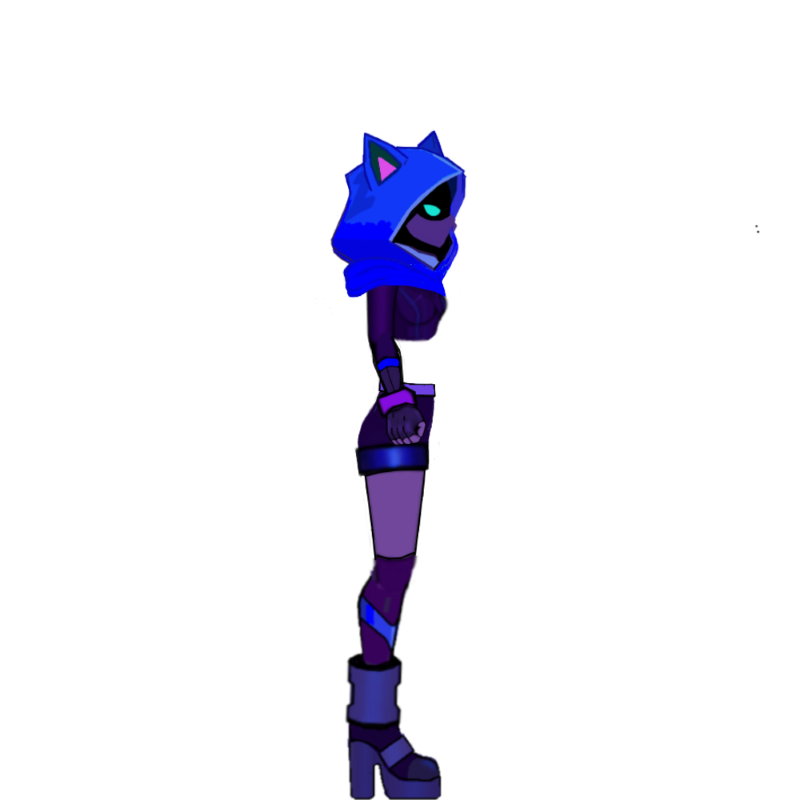
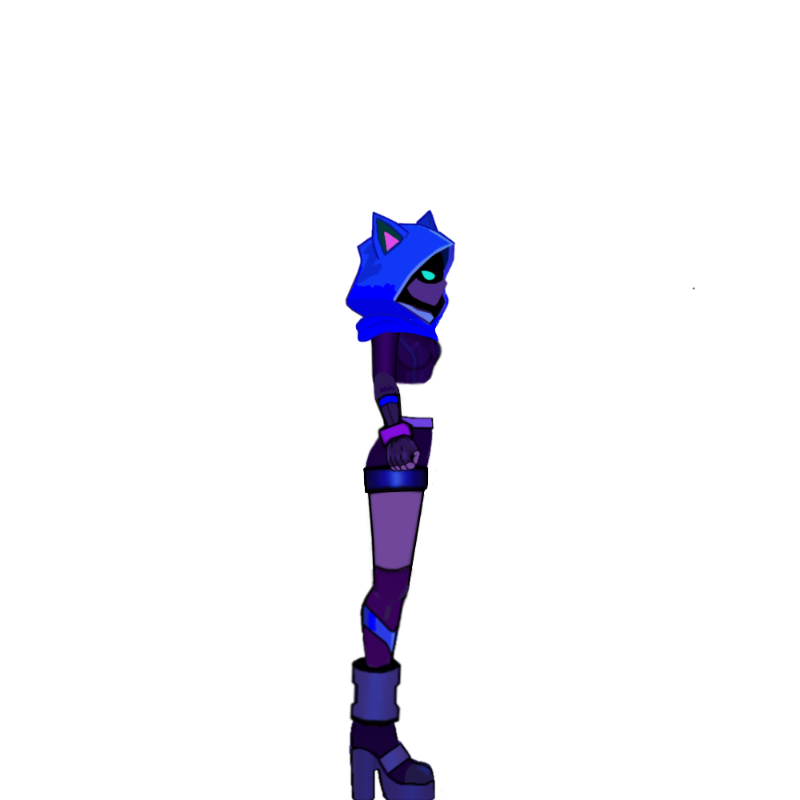
updated art to fix short legs

Changed region(s): [[0.4062, 0.1562, 0.5938, 0.625], [0.4062, 0.6562, 0.5625, 1.0]]

diff --git a/animatedRig.html b/animatedRig.html
@@ -44,16 +44,16 @@ const R2D = Math.PI / 180, FPS = 24;
    part's own pivot-to-pivot axis onto the matching skeleton bone (rotating and stretching it along the bone). */
 const SHEET_URL='assets/images/body_parts.png';   // the head frame is the hooded head; every other frame matches mannequin_side.png
 const ART_NAMES=["head", "chest", "pelvis", "upperArm", "forearm", "handR", "handL", "thigh", "calf", "shoe"];
-const ART_BOX={"head": [298, 22, 179, 203], "chest": [332, 162, 141, 146], "pelvis": [317, 281, 144, 164], "upperArm": [340, 163, 87, 169], "forearm": [345, 259, 97, 157], "handR": [364, 354, 91, 94], "handL": [365, 353, 90, 93], "thigh": [325, 328, 132, 242], "calf": [331, 502, 100, 220], "shoe": [327, 640, 154, 160]};   // [x,y,w,h] crop of each frame (bbox + margin)
+const ART_BOX={"head": [320, 120, 155, 182], "chest": [355, 251, 102, 104], "pelvis": [346, 367, 98, 119], "upperArm": [358, 262, 51, 109], "forearm": [359, 330, 66, 100], "handR": [374, 384, 59, 71], "handL": [373, 395, 59, 62], "thigh": [344, 409, 95, 197], "calf": [335, 551, 86, 198], "shoe": [338, 681, 114, 119]};   // [x,y,w,h] crop of each frame (bbox + margin)
 const ART_PIV={
-  hip:[393.5,365.5], knee:[384.5,533.6], ankle:[383.1,685.3],        // gray knee ball / ankle circle; hip = 320.2px above ankle
-  shoulder:[383.0,211.5], elbow:[383.7,296.7], wrist:[401.9,386.3],  // elbow / wrist gray circles; shoulder = centre of the arm cap
-  rib:[388.15,287.0],                                               // waist joint: on the hip->shoulder line, chest/pelvis gap
-  neck:[382.2,199.5], headPivot:[382.2,143.5],
-  neckFrom:[392,204], neckTo:[394,140],                      // chest top / base-back of the skull (56px apart, like the rig's neck)
-  stomachFrom:[409,322], stomachTo:[396,268],                // stomach fill: just inside the pelvis top / just inside the chest bottom
-  bagHip:[392,332],                                          // crossbody bag: where its two strap loops hang on the near hip (pelvis art)
-  strapTop:[379,203]                                         // crossbody strap: the apex over the far shoulder (chest art)
+  hip:[392.5,448], knee:[391,580], ankle:[372.6,702.8],            // hip = centre of the thigh's top cap / pelvis round; knee = where thigh bottom meets calf top; ankle = boot pivot (sole 96px below, heel 25px behind)
+  shoulder:[383,288], elbow:[382.5,349], wrist:[395,404],          // shoulder = centre of the arm cap; elbow / wrist = joint ends of the arm parts
+  rib:[386,340],                                                   // waist joint: on the hip->shoulder line, at the chest bottom
+  neck:[382.3,276], headPivot:[393,240],                           // neck = 12px above the shoulder along the chest; head turns about the skull base
+  neckFrom:[385,268], neckTo:[393,236],                            // neck line: inside the chest top / inside the hood
+  stomachFrom:[397,390], stomachTo:[398,336],                      // stomach fill: just inside the pelvis top / just inside the chest bottom
+  bagHip:[391,418],                                                // crossbody bag: where its two strap loops hang on the near hip (pelvis art)
+  strapTop:[381,278]                                               // crossbody strap: the apex over the far shoulder (chest art)
 };
 /* Pivot edits made in the Pivots menu are remembered in this browser (localStorage). They are discarded automatically if the
    defaults change. The defaults come from json_files/rig_config.json ("pivots"); the block above holds the built-in defaults. */
